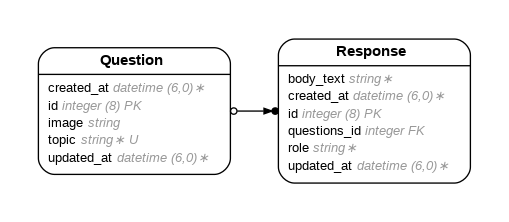
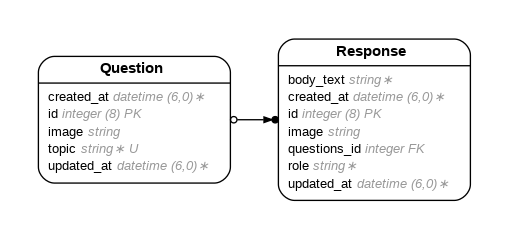
added image to responses tbl, create_with_image working, OpenAI API still not working for second response

diff --git a/app/controllers/questions_controller.rb b/app/controllers/questions_controller.rb
@@ -36,7 +36,7 @@ class QuestionsController < ApplicationController
       user_response = Response.new
       user_response.role = "user"
       user_response.questions_id = the_question.id
-      user_response.body_text = "Can you help me with #{the_question.topic}?"
+      user_response.body_text = "Can you help me understand #{the_question.topic}?"
 
       user_response.save
 
@@ -50,15 +50,76 @@ class QuestionsController < ApplicationController
         },
         {
           "role" => "user",
-          "content" => "Can you help me with #{the_question.topic}?",
+          "content" => "Can you help me understand #{the_question.topic}?",
         },
       ]
 
       api_response = client.chat(
         parameters: {
           model: ENV.fetch("OPEN_AI_MODEL"),
-          messages: message_list
-        }
+          messages: message_list,
+        },
+      )
+
+      assistant_content = api_response.fetch("choices").at(0).fetch("message").fetch("content")
+
+      assistant_response = Response.new
+      assistant_response.role = "helper"
+      assistant_response.questions_id = the_question.id
+      assistant_response.body_text = assistant_content
+
+      assistant_response.save
+
+      redirect_to("/questions/#{the_question.id}", { :notice => "Question created successfully." })
+    else
+      redirect_to("/questions/#{the_question.id}", { :alert => the_question.errors.full_messages.to_sentence })
+    end
+  end
+
+  def create_with_image
+    the_question = Question.new
+    the_question.topic = params.fetch("query_topic")
+    the_question.image = params.fetch("query_image")
+
+    if the_question.valid?
+      the_question.save
+
+      # Create system message
+      system_response = Response.new
+      system_response.questions_id = the_question.id
+      system_response.image = the_question.image
+      system_response.role = "system"
+      system_response.body_text = "I am a helpful #{the_question.topic} expert. Can I help you answer the question in your image?"
+
+      system_response.save
+
+      # Create first user message
+      user_response = Response.new
+      user_response.role = "user"
+      user_response.questions_id = the_question.id
+      user_response.body_text = "Can you help me understand #{the_question.topic}?"
+
+      user_response.save
+
+      # Call API to get first assistant message
+      client = OpenAI::Client.new(access_token: ENV.fetch("OPENAI_API_KEY"))
+
+      message_list = [
+        {
+          "role" => "system",
+          "content" => "I am a helpful #{the_question.topic} expert. Can I help you answer the question in your image?",
+        },
+        {
+          "role" => "user",
+          "content" => "Yes, please! The image is here: #{the_question.image}?",
+        },
+      ]
+
+      api_response = client.chat(
+        parameters: {
+          model: ENV.fetch("OPEN_AI_MODEL"),
+          messages: message_list,
+        },
       )
 
       assistant_content = api_response.fetch("choices").at(0).fetch("message").fetch("content")

diff --git a/config/routes.rb b/config/routes.rb
@@ -3,7 +3,9 @@ Rails.application.routes.draw do
 
   # CREATE
   post("/insert_response", { :controller => "responses", :action => "create" })
-          
+        
+  post("/insert_image_response", { :controller => "responses", :action => "create_with_image"})
+  
   # READ
   get("/responses", { :controller => "responses", :action => "index" })
   
@@ -24,6 +26,8 @@ Rails.application.routes.draw do
   # CREATE
   post("/insert_question", { :controller => "questions", :action => "create" })
           
+  post("/insert_image_question", { :controller => "questions", :action => "create_with_image"})
+
   # READ
   get("/questions", { :controller => "questions", :action => "index" })
   

diff --git a/db/schema.rb b/db/schema.rb
@@ -10,7 +10,7 @@
 #
 # It's strongly recommended that you check this file into your version control system.
 
-ActiveRecord::Schema[7.1].define(version: 2024_12_14_075321) do
+ActiveRecord::Schema[7.1].define(version: 2024_12_14_184959) do
   # These are extensions that must be enabled in order to support this database
   enable_extension "plpgsql"
 
@@ -27,6 +27,7 @@ ActiveRecord::Schema[7.1].define(version: 2024_12_14_075321) do
     t.string "role"
     t.datetime "created_at", null: false
     t.datetime "updated_at", null: false
+    t.string "image"
   end
 
 end

diff --git a/config/initializers/carrierwave.rb b/config/initializers/carrierwave.rb
@@ -1,0 +1,11 @@
+CarrierWave.configure do |config|
+  config.cache_storage = :file
+  config.fog_provider = 'fog/cloudinary'
+  config.fog_credentials = {
+    provider: 'Cloudinary',
+    cloud_name: ENV['CLOUDINARY_CLOUD_NAME'],
+    api_key: ENV['CLOUDINARY_API_KEY'],
+    api_secret: ENV['CLOUDINARY_API_SECRET']
+  }
+  config.fog_directory = ENV['CLOUDINARY_CLOUD_NAME']
+end

diff --git a/app/uploaders/image_uploader.rb b/app/uploaders/image_uploader.rb
@@ -2,6 +2,7 @@ class ImageUploader < CarrierWave::Uploader::Base
   # Include RMagick or MiniMagick support:
   # include CarrierWave::RMagick
   # include CarrierWave::MiniMagick
+  include Cloudinary::CarrierWave
 
   # Choose what kind of storage to use for this uploader:
   storage :file

diff --git a/config/initializers/cloudinary.rb b/config/initializers/cloudinary.rb
@@ -1,0 +1,8 @@
+# config/initializers/cloudinary.rb
+
+Cloudinary.config do |config|
+  config.cloud_name = ENV.fetch("CLOUDINARY_CLOUD_NAME")
+  config.api_key = ENV.fetch("CLOUDINARY_API_KEY")
+  config.api_secret = ENV.fetch("CLOUDINARY_API_SECRET")
+  config.cdn_subdomain = true
+end

diff --git a/app/models/response.rb b/app/models/response.rb
@@ -4,6 +4,7 @@
 #
 #  id           :bigint           not null, primary key
 #  body_text    :string
+#  image        :string
 #  role         :string
 #  created_at   :datetime         not null
 #  updated_at   :datetime         not null

diff --git a/db/migrate/20241214184959_add_image_to_responses.rb b/db/migrate/20241214184959_add_image_to_responses.rb
@@ -1,0 +1,5 @@
+class AddImageToResponses < ActiveRecord::Migration[7.1]
+  def change
+    add_column :responses, :image, :string
+  end
+end
